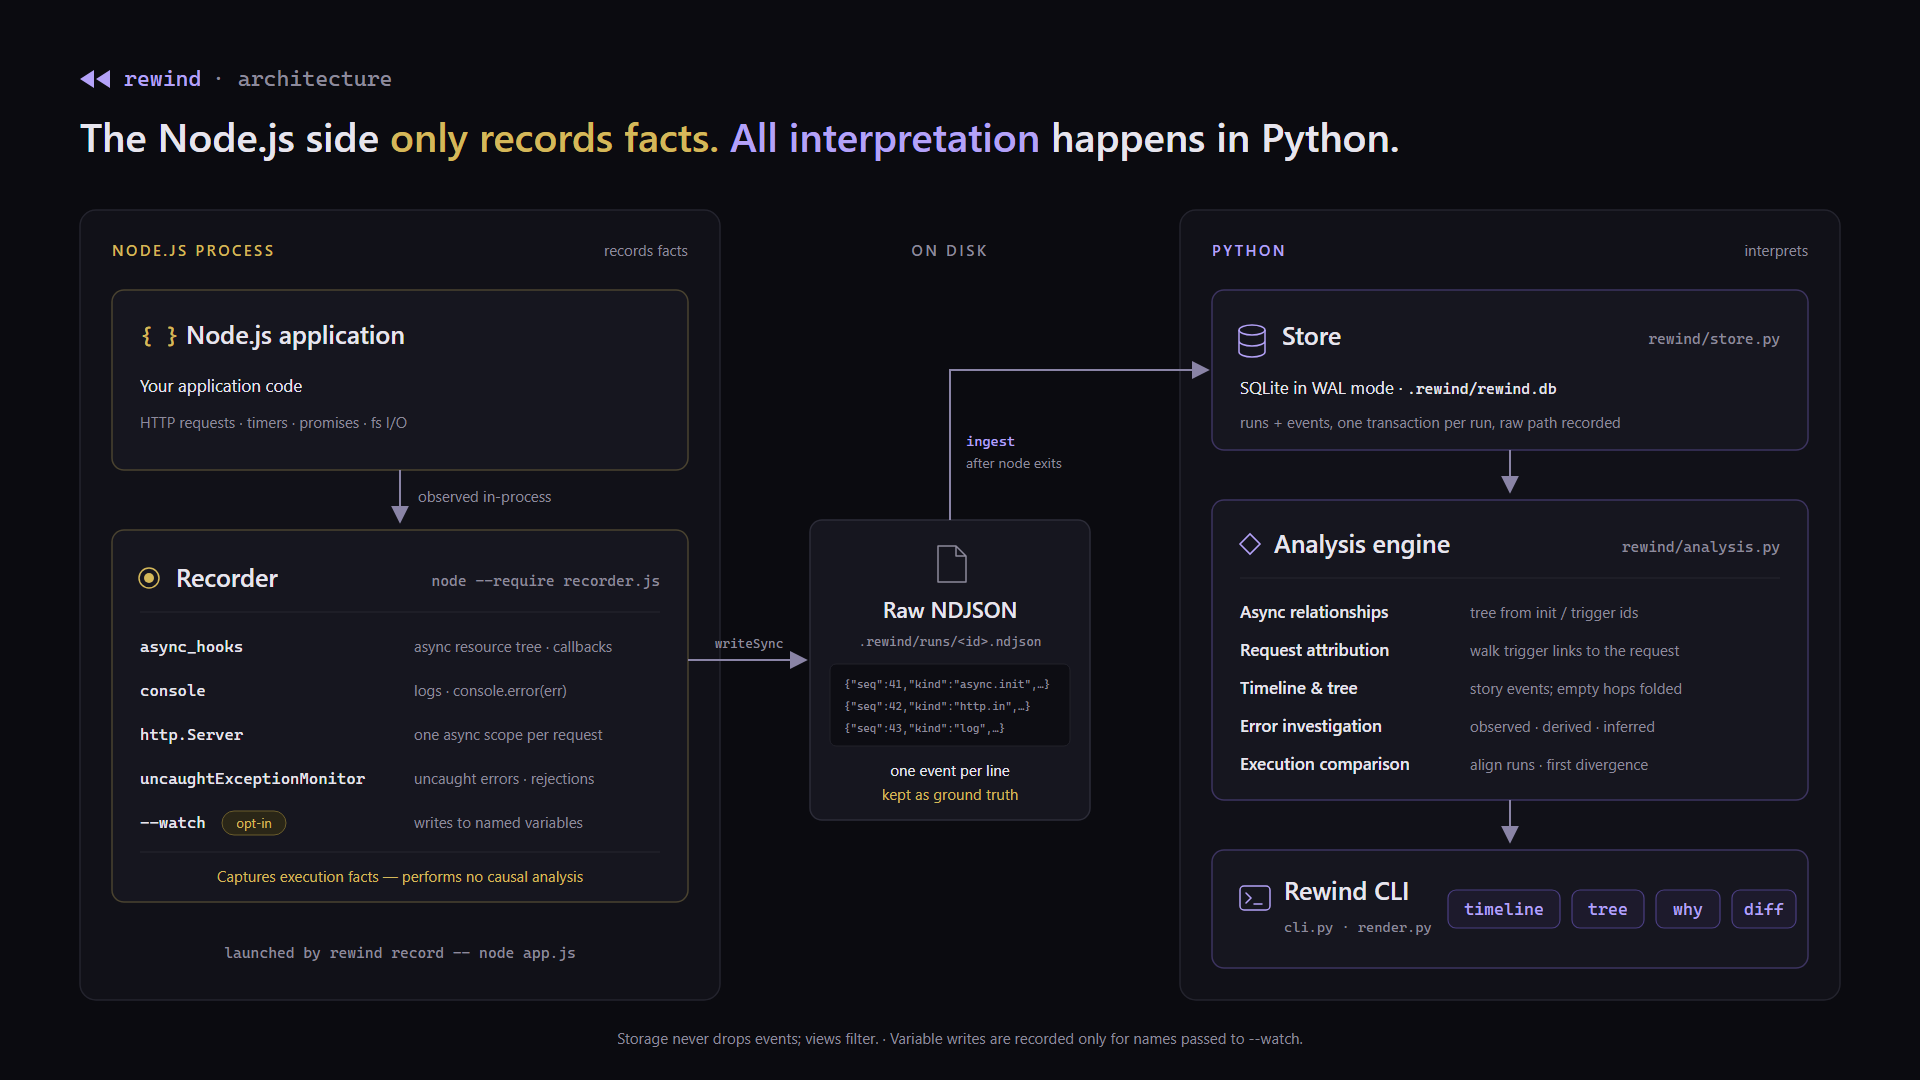
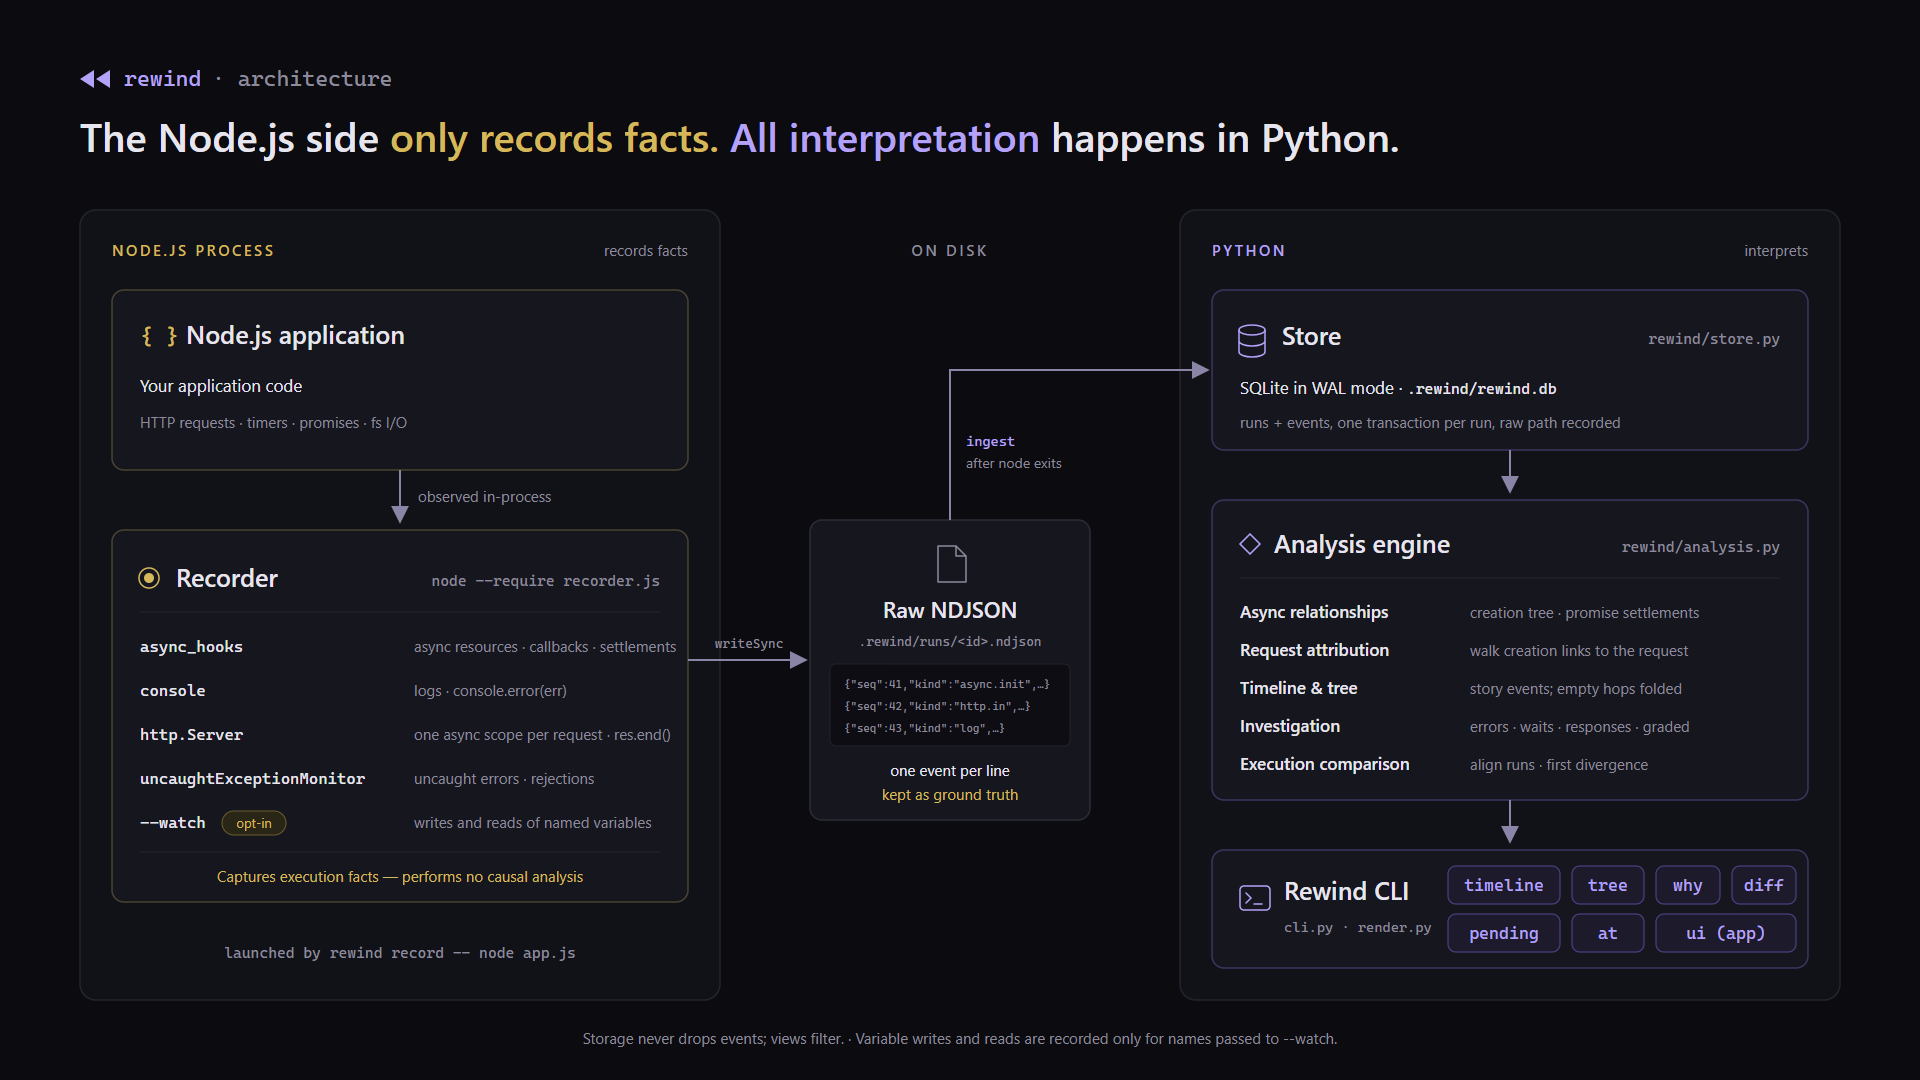
docs: architecture diagram and overview for creation links and all commands
The diagram said "tree from init / trigger ids" and "walk trigger links
to the request", listed four commands, and said --watch records writes
only. It now shows creation links and promise settlements, res.end on
http.Server, investigation of errors, waits and responses, and every
command (pending, at, ui added); the PNG is re-rendered from the SVG.
docs/ARCHITECTURE.md's overview box and testing list are brought to the
same state.

diff --git a/docs/ARCHITECTURE.md b/docs/ARCHITECTURE.md
@@ -5,13 +5,16 @@
  │ app code                                    │
  │ recorder/recorder.js  (node --require)      │
  │   async_hooks · console · http.Server ·     │
- │   uncaughtExceptionMonitor · [--watch AST]  │──► .rewind/runs/<id>.ndjson   (raw, kept)
+ │   res.end · uncaughtExceptionMonitor ·      │
+ │   [--watch AST]                             │──► .rewind/runs/<id>.ndjson   (raw, kept)
  └─────────────────────────────────────────────┘
                           │ process exits
                           ▼
  rewind/store.py   ingest ──► .rewind/rewind.db  (SQLite, WAL)
- rewind/analysis.py         pure functions: Run index, tree, investigate, diff
+ rewind/analysis.py         pure functions: Run index (attribution, promise waits), tree, investigate,
+                            response paths, pending, state_at, diff
  rewind/render.py + cli.py  Typer commands, Rich output
+ rewind/tui/                Textual app over the same analysis
 ```
 
 The Node side only writes facts. All interpretation happens in Python.
@@ -146,7 +149,12 @@ Interaction model:
 - the CLI end to end (`test_cli.py`)
 - presentation: landing screen, help, colour handling, narrow terminals, palette contrast, console-font fallback (`test_render.py`)
 - the interactive app, driven headless with Textual's pilot over real demo recordings: navigation, evidence jumps, diff
-  across runs, empty and incomplete recordings, four terminal sizes, and the real `App.run()` entry point (`test_tui.py`)
+  across runs, empty and incomplete recordings, four terminal sizes, and the real `App.run()` entry point (`test_tui.py`,
+  `test_tui_polish.py`); recording shared by the CLI and the app (`test_recording.py`)
+- causal reconstruction over purpose-built fixtures (`test_causal.py`): the invariant that creation- and trigger-based
+  attribution agree where no promise crosses requests; shared in-flight and settled promises, a mutex hand-off, shared
+  rejections (caught and unhandled), thenable jobs, `http.end` and response paths (including responses ended by
+  another request or by code outside any request), `pending` after `end()` then exit, and a 3000-deep `await` loop
 
 ## Terminal presentation
 
